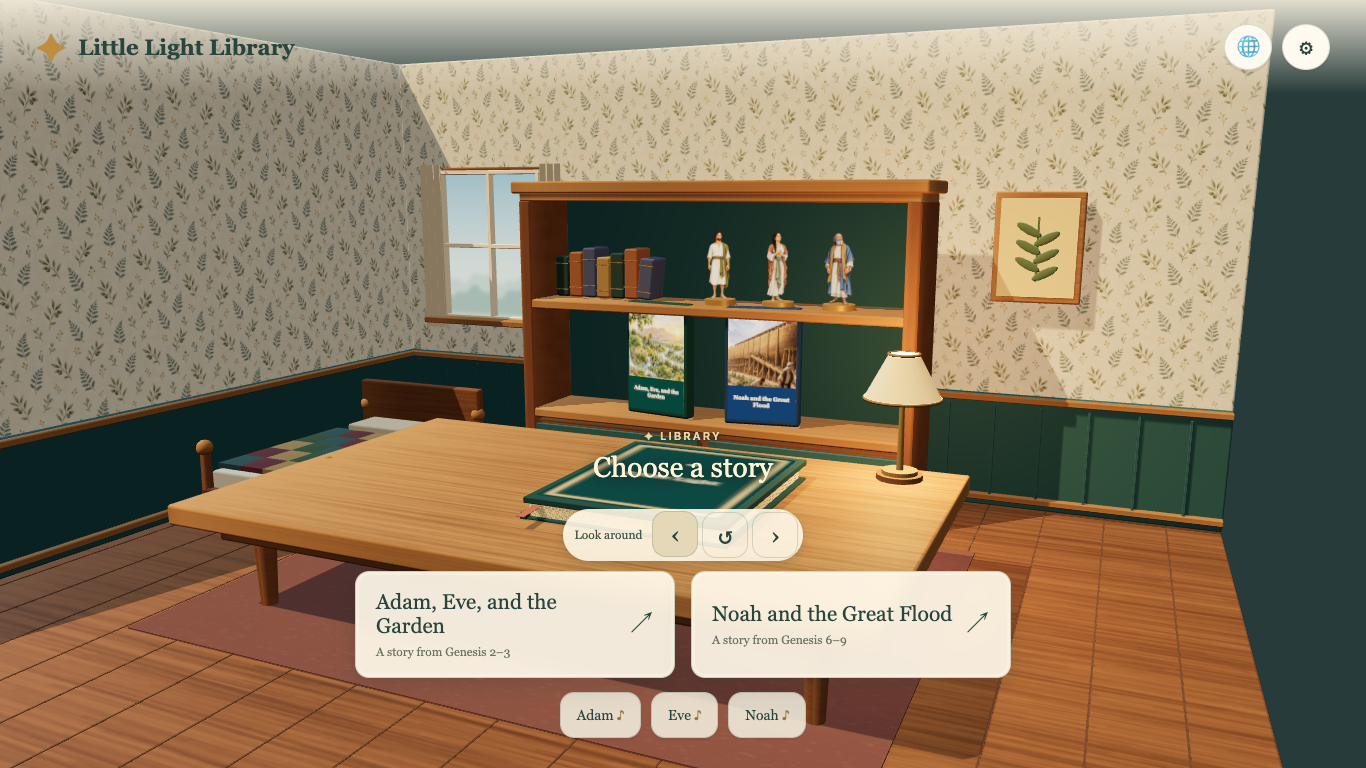
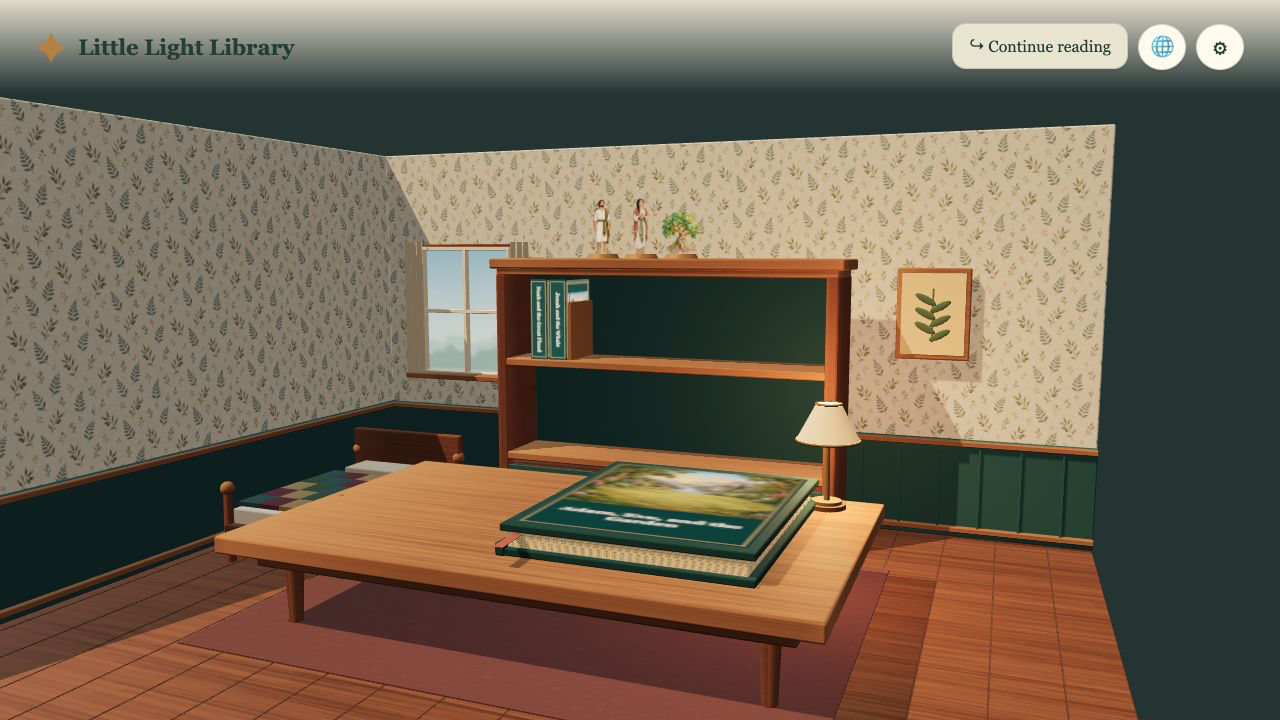
docs: refresh Little Light Library prototype tile

diff --git a/prototypes/little-light-library/docs/repository-cleanup.md b/prototypes/little-light-library/docs/repository-cleanup.md
@@ -20,6 +20,10 @@ The user requested removal from both the PR history and local storage, without a
 - Written quality reviews, the cycle log, ADRs and the agent/authoring handoff.
 - Six selected screenshots in `docs/captures/`: room, Eden, flood and aftermath at desktop
   size, Eden on phone and flood on tablet.
+  The room tile was refreshed on 21 September 2026 after opening Eden and returning
+  to Library: closed book on the table, toys on the top shelf, current controls.
+  It retains the `room-1366.png` path for existing links; the new capture is 1280×720.
+  The other five captures remain historical.
 - One compact verification bundle in [review/latest](../review/latest/).
 
 ## Removed
